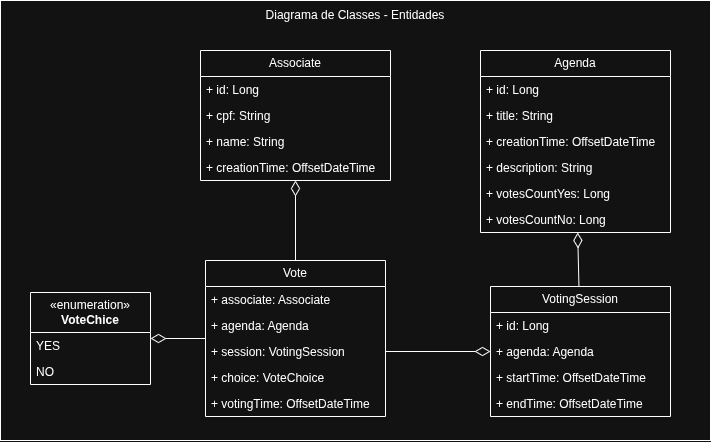
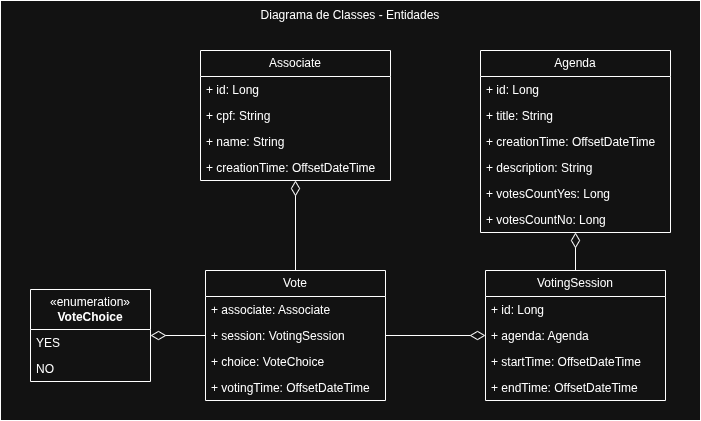
feat: Implementadas as entidades e seus respectivos repositórios.

diff --git a/src/main/java/br/dev/fornarilabs/voting_system/domain/Vote.java b/src/main/java/br/dev/fornarilabs/voting_system/domain/Vote.java
@@ -1,0 +1,35 @@
+package br.dev.fornarilabs.voting_system.domain;
+
+import jakarta.persistence.*;
+import lombok.Getter;
+import lombok.Setter;
+import org.springframework.data.annotation.CreatedDate;
+
+import java.time.OffsetDateTime;
+
+@Getter
+@Setter
+@Entity
+@Table(name = "tb_vote")
+public class Vote {
+
+    @EmbeddedId
+    private VoteId id;
+
+    @ManyToOne(fetch = FetchType.LAZY)
+    @MapsId("associateId")
+    @JoinColumn(name = "associate_id")
+    private Associate associate;
+
+    @ManyToOne(fetch = FetchType.LAZY)
+    @JoinColumn(name = "session_id")
+    private VotingSession session;
+
+    @Column(name = "vote_choice", nullable = false, length = 1)
+    private VoteChoice choice;
+
+    @CreatedDate
+    @Column(name = "voting_time", updatable = false)
+    private OffsetDateTime votingTime;
+
+}

diff --git a/src/main/java/br/dev/fornarilabs/voting_system/domain/VoteId.java b/src/main/java/br/dev/fornarilabs/voting_system/domain/VoteId.java
@@ -1,0 +1,35 @@
+package br.dev.fornarilabs.voting_system.domain;
+
+import jakarta.persistence.Column;
+import jakarta.persistence.Embeddable;
+import lombok.RequiredArgsConstructor;
+
+import java.io.Serializable;
+import java.util.Objects;
+
+@RequiredArgsConstructor
+@Embeddable
+public class VoteId implements Serializable {
+    @Column(name = "agenda_id")
+    private Long agendaId;
+
+    @Column(name = "associate_id")
+    private Long associateId;
+
+    @Override
+    public boolean equals(Object obj) {
+        if(this == obj){
+            return true;
+        }
+        if(obj == null || obj.getClass() != getClass()){
+            return false;
+        }
+        VoteId voteId = (VoteId) obj;
+        return Objects.equals(voteId.agendaId, agendaId) && Objects.equals(voteId.associateId, associateId);
+    }
+
+    @Override
+    public int hashCode() {
+        return Objects.hash(agendaId, associateId);
+    }
+}

diff --git a/src/main/java/br/dev/fornarilabs/voting_system/domain/VotingSession.java b/src/main/java/br/dev/fornarilabs/voting_system/domain/VotingSession.java
@@ -1,0 +1,31 @@
+package br.dev.fornarilabs.voting_system.domain;
+
+import jakarta.persistence.*;
+import lombok.Getter;
+import lombok.Setter;
+import org.springframework.data.annotation.CreatedDate;
+
+import java.time.OffsetDateTime;
+
+@Getter
+@Setter
+@Entity
+@Table(name = "tb_voting_session")
+public class VotingSession {
+
+    @Id
+    @GeneratedValue(strategy = GenerationType.IDENTITY)
+    private Long id;
+
+    @ManyToOne(fetch = FetchType.LAZY)
+    @JoinColumn(name = "agenda_id")
+    private Agenda agenda;
+
+    @CreatedDate
+    @Column(name = "start_time", updatable = false)
+    private OffsetDateTime startTime;
+
+    @Column(name = "end_time")
+    private OffsetDateTime endTime;
+
+}

diff --git a/src/main/java/br/dev/fornarilabs/voting_system/domain/Agenda.java b/src/main/java/br/dev/fornarilabs/voting_system/domain/Agenda.java
@@ -1,0 +1,30 @@
+package br.dev.fornarilabs.voting_system.domain;
+
+import jakarta.persistence.*;
+import lombok.Getter;
+import lombok.Setter;
+import org.springframework.data.annotation.CreatedDate;
+
+import java.time.OffsetDateTime;
+
+@Getter
+@Setter
+@Entity
+@Table(name = "tb_agenda")
+public class Agenda {
+    @Id
+    @GeneratedValue(strategy = GenerationType.IDENTITY)
+    private Long id;
+    private String title;
+    private String description;
+
+    @Column(name = "votes_count_yes")
+    private Long votesCountYes;
+
+    @Column(name = "votes_count_no")
+    private Long votesCountNo;
+
+    @CreatedDate
+    @Column(name = "creation_time", updatable = false)
+    private OffsetDateTime creationTime;
+}

diff --git a/src/main/java/br/dev/fornarilabs/voting_system/repository/converter/VoteChoiceConverter.java b/src/main/java/br/dev/fornarilabs/voting_system/repository/converter/VoteChoiceConverter.java
@@ -1,0 +1,25 @@
+package br.dev.fornarilabs.voting_system.repository.converter;
+
+import br.dev.fornarilabs.voting_system.domain.VoteChoice;
+import jakarta.persistence.AttributeConverter;
+import jakarta.persistence.Converter;
+
+@Converter(autoApply = true)
+public class VoteChoiceConverter implements AttributeConverter<VoteChoice, String> {
+
+    @Override
+    public String convertToDatabaseColumn(VoteChoice attribute) {
+        if(attribute == null){
+            return null;
+        }
+        return attribute.getValue();
+    }
+
+    @Override
+    public VoteChoice convertToEntityAttribute(String dbData) {
+        if(dbData == null){
+            return null;
+        }
+        return VoteChoice.fromValue(dbData);
+    }
+}

diff --git a/src/main/java/br/dev/fornarilabs/voting_system/domain/Associate.java b/src/main/java/br/dev/fornarilabs/voting_system/domain/Associate.java
@@ -1,0 +1,24 @@
+package br.dev.fornarilabs.voting_system.domain;
+
+import jakarta.persistence.*;
+import lombok.Getter;
+import lombok.Setter;
+import org.springframework.data.annotation.CreatedDate;
+
+import java.time.OffsetDateTime;
+
+@Getter
+@Setter
+@Entity
+@Table(name = "tb_associate")
+public class Associate {
+    @Id
+    @GeneratedValue(strategy = GenerationType.IDENTITY)
+    private Long id;
+    private String cpf;
+    private String name;
+
+    @CreatedDate
+    @Column(name = "creation_time", updatable = false)
+    private OffsetDateTime creationTime;
+}

diff --git a/src/main/java/br/dev/fornarilabs/voting_system/domain/VoteChoice.java b/src/main/java/br/dev/fornarilabs/voting_system/domain/VoteChoice.java
@@ -1,0 +1,24 @@
+package br.dev.fornarilabs.voting_system.domain;
+
+import lombok.Getter;
+
+@Getter
+public enum VoteChoice {
+    YES("Y"),
+    NO("N");
+
+    private final String value;
+
+    VoteChoice(String value) {
+        this.value = value;
+    }
+
+    public static VoteChoice fromValue(String value){
+        for(VoteChoice choice: VoteChoice.values()){
+            if(choice.getValue().equals(value)){
+                return choice;
+            }
+        }
+        throw new IllegalArgumentException("Invalid VoteChoice value.");
+    }
+}

diff --git a/src/main/java/br/dev/fornarilabs/voting_system/repository/VotingSessionRepository.java b/src/main/java/br/dev/fornarilabs/voting_system/repository/VotingSessionRepository.java
@@ -1,0 +1,21 @@
+package br.dev.fornarilabs.voting_system.repository;
+
+import br.dev.fornarilabs.voting_system.domain.VotingSession;
+import org.springframework.data.jpa.repository.JpaRepository;
+import org.springframework.data.jpa.repository.Query;
+import org.springframework.data.repository.query.Param;
+
+import java.time.OffsetDateTime;
+import java.util.Optional;
+
+public interface VotingSessionRepository extends JpaRepository<VotingSession, Long> {
+
+    @Query("""
+        SELECT vs FROM VotingSession vs
+        WHERE vs.agenda.id = :agendaId
+        AND :currentTime BETWEEN vs.startTime AND vs.endTime""")
+    Optional<VotingSession> findActiveSession(
+            @Param("agendaId") Long agendaId,
+            @Param("currentTime") OffsetDateTime currentTime
+    );
+}

diff --git a/src/main/java/br/dev/fornarilabs/voting_system/config/JpaConfig.java b/src/main/java/br/dev/fornarilabs/voting_system/config/JpaConfig.java
@@ -1,0 +1,20 @@
+package br.dev.fornarilabs.voting_system.config;
+
+import org.springframework.context.annotation.Bean;
+import org.springframework.context.annotation.Configuration;
+import org.springframework.data.auditing.DateTimeProvider;
+import org.springframework.data.jpa.repository.config.EnableJpaAuditing;
+
+import java.time.OffsetDateTime;
+import java.time.ZoneOffset;
+import java.util.Optional;
+
+@Configuration
+@EnableJpaAuditing(dateTimeProviderRef = "dateTimeProvider")
+public class JpaConfig {
+
+    @Bean
+    public DateTimeProvider dateTimeProvider(){
+        return () -> Optional.of(OffsetDateTime.now(ZoneOffset.UTC));
+    }
+}

diff --git a/src/main/java/br/dev/fornarilabs/voting_system/repository/VoteRepository.java b/src/main/java/br/dev/fornarilabs/voting_system/repository/VoteRepository.java
@@ -1,0 +1,8 @@
+package br.dev.fornarilabs.voting_system.repository;
+
+import br.dev.fornarilabs.voting_system.domain.Vote;
+import br.dev.fornarilabs.voting_system.domain.VoteId;
+import org.springframework.data.jpa.repository.JpaRepository;
+
+public interface VoteRepository extends JpaRepository<Vote, VoteId> {
+}

diff --git a/src/main/java/br/dev/fornarilabs/voting_system/repository/AgendaRepository.java b/src/main/java/br/dev/fornarilabs/voting_system/repository/AgendaRepository.java
@@ -1,0 +1,7 @@
+package br.dev.fornarilabs.voting_system.repository;
+
+import br.dev.fornarilabs.voting_system.domain.Agenda;
+import org.springframework.data.jpa.repository.JpaRepository;
+
+public interface AgendaRepository extends JpaRepository<Agenda, Long> {
+}

diff --git a/src/main/java/br/dev/fornarilabs/voting_system/repository/AssociateRepository.java b/src/main/java/br/dev/fornarilabs/voting_system/repository/AssociateRepository.java
@@ -1,0 +1,7 @@
+package br.dev.fornarilabs.voting_system.repository;
+
+import br.dev.fornarilabs.voting_system.domain.Associate;
+import org.springframework.data.jpa.repository.JpaRepository;
+
+public interface AssociateRepository extends JpaRepository<Associate, Long> {
+}